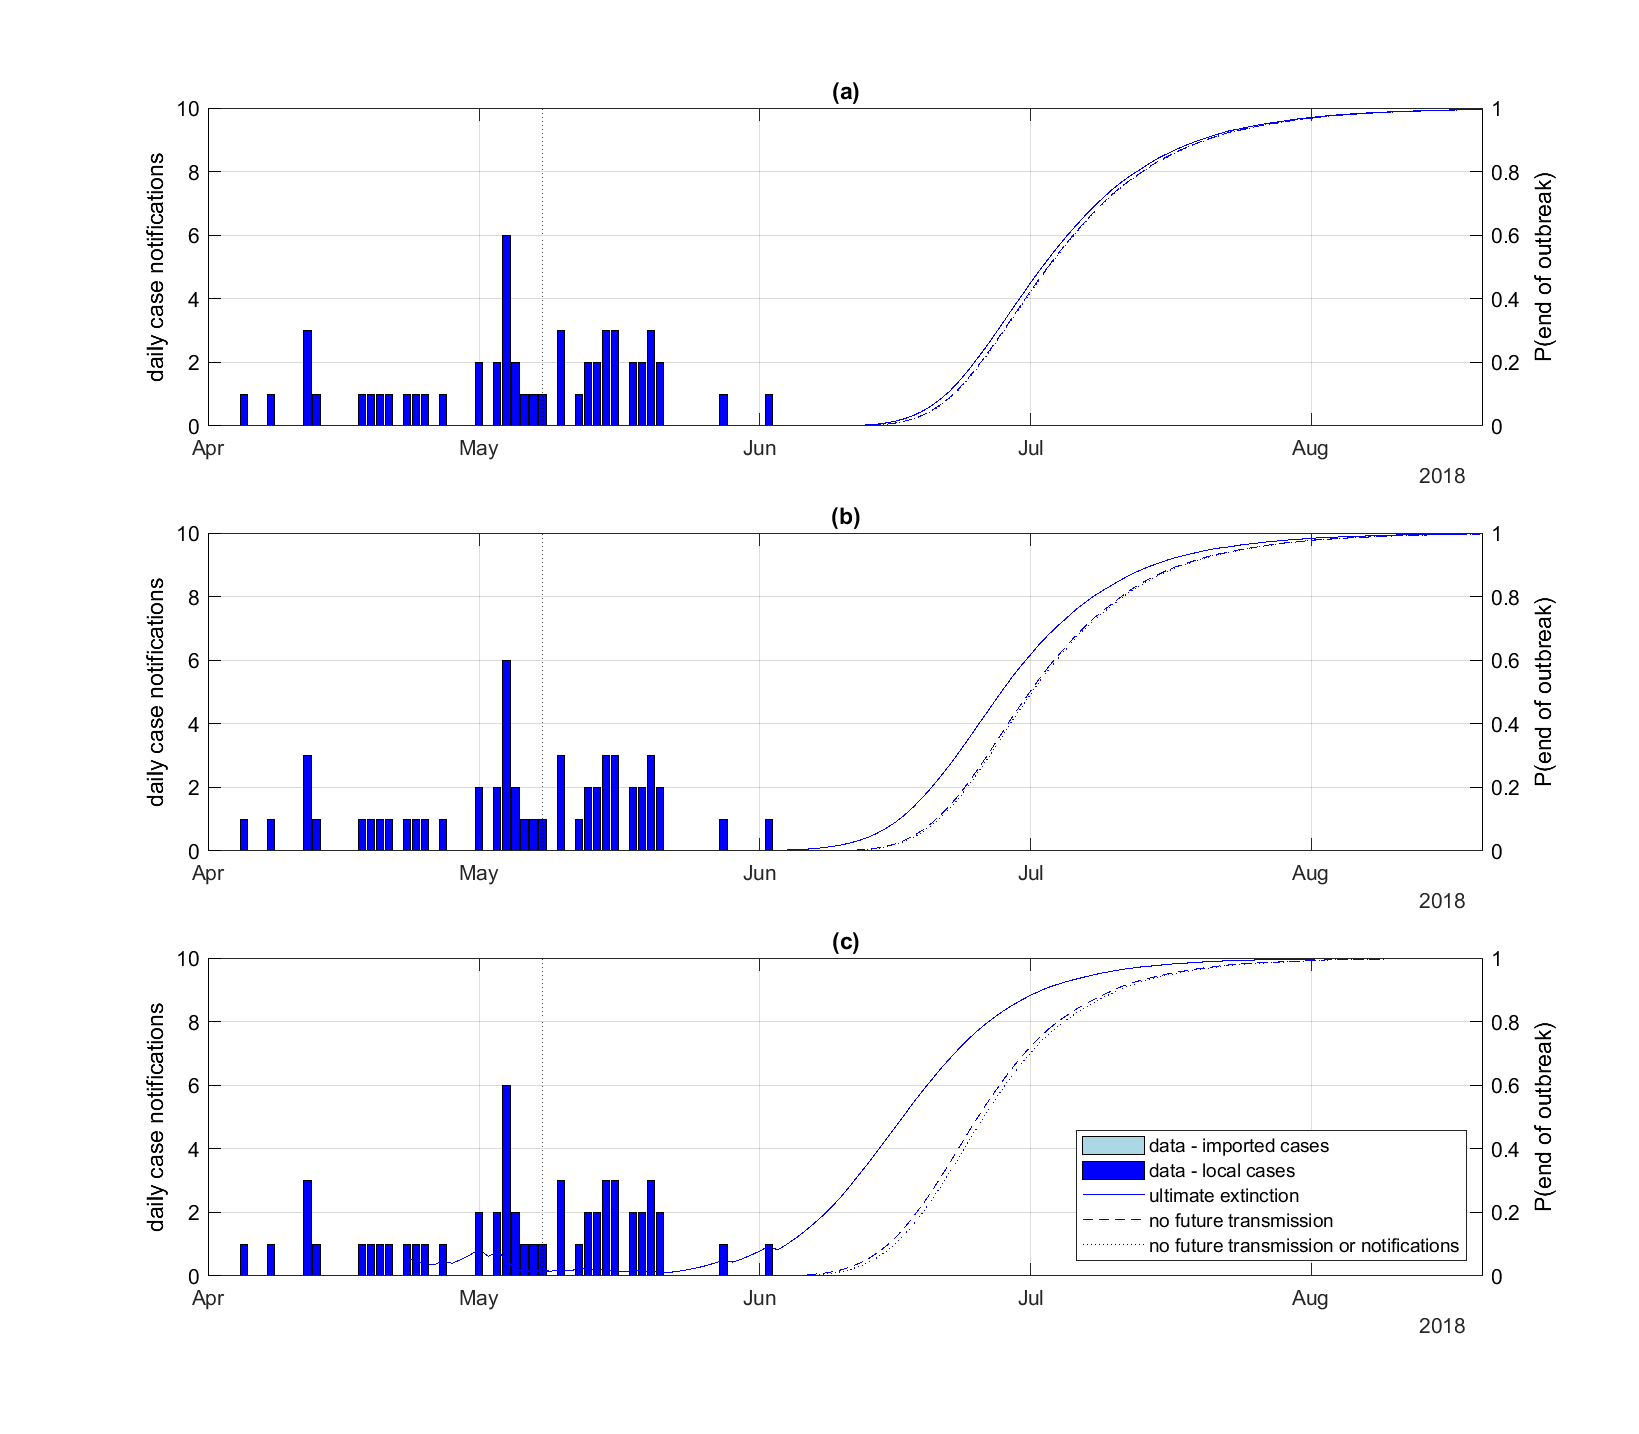
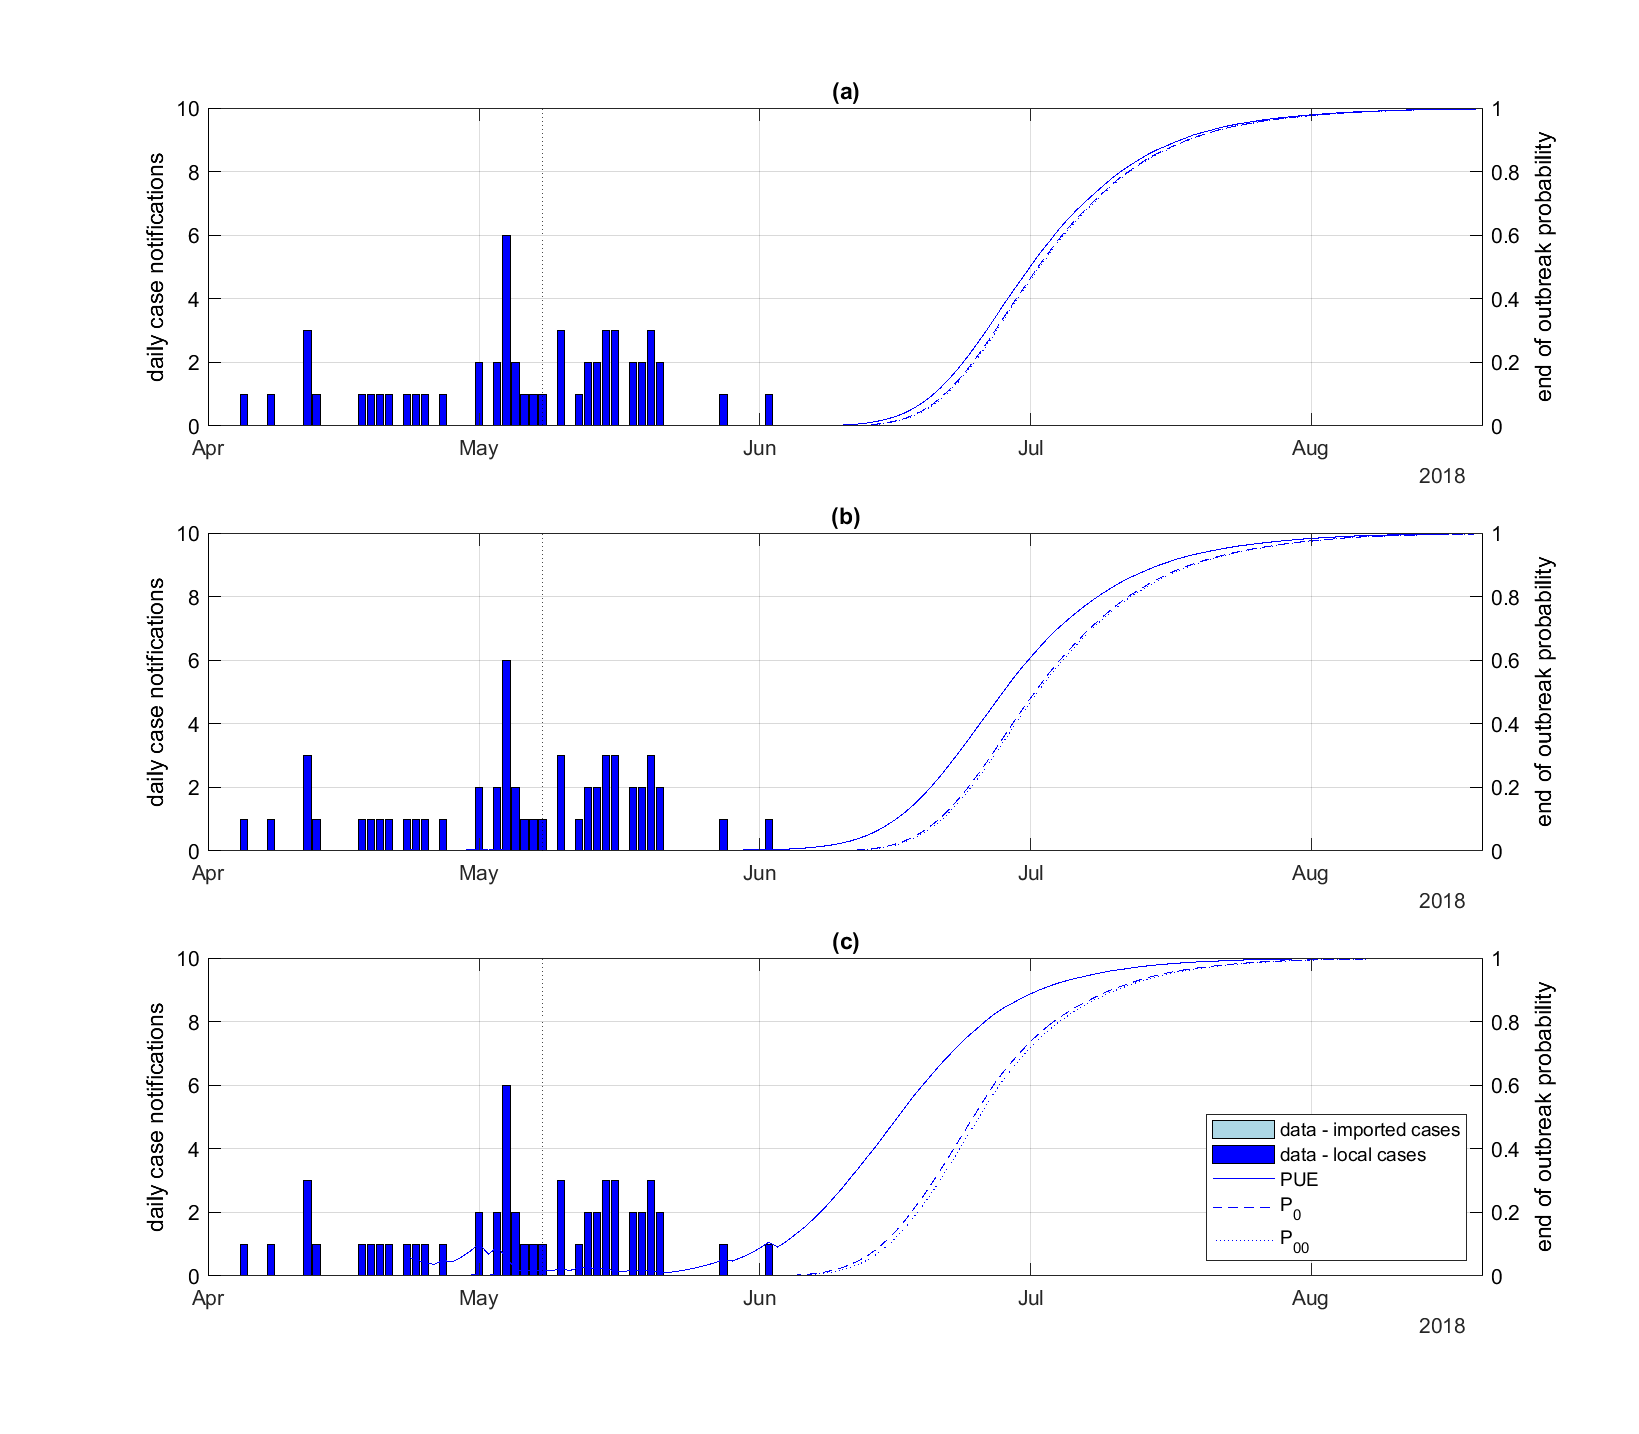
Updated parameters and results
Reverting to k=inf as the default value and updated figures

diff --git a/code/makePlots.m b/code/makePlots.m
@@ -42,11 +42,11 @@ fprintf(fid, '\\hline\n');
 
 iMinPlot = 30;          % don't plot the first part of the p(end of out break) curves which are >0 at the start of the outbreak
 iFig = 1;    
-for iOutbreak = 1:nOutbreaks
+for iOutbreak = 1:2
     fNameData = sprintf('%s_processed.csv', outbreakLbl(iOutbreak));
     processed = readtable(dataFolder+fNameData);
 
-    iRow = find(results.outbreak == outbreakLbl(iOutbreak) & results.iScenario == baseScenario);
+    iRow = find(results.outbreak == outbreakLbl(iOutbreak) & results.sensitivityFlag == sensitivityFlag(iOutbreak) & results.iScenario == baseScenario);
 
     t = results.t{iRow};
     par = results.par{iRow};
@@ -107,7 +107,7 @@ for iOutbreak = 1:nOutbreaks
     ylabel('daily local case notifications')
     yyaxis right
     plot(t(iMinPlot:end), pNoInf(iMinPlot:end), 'b-')    
-    ylabel('P(end of outbreak)')
+    ylabel('end of outbreak probability (P_0)')
     xline(par.tRampStart, 'k:');
     %xlim([processed.t(1)-1, processed.t(find(processed.nCasesLoc > 0, 1, 'last')+7) ]);
     xlim([processed.t(1)-1, t(end) ]);
@@ -148,7 +148,7 @@ for iOutbreak = 1:nOutbreaks
 
     scLabel = strings(1, length(scenarioKey));
     for iPlot = 1:length(scenarioKey)
-        iRow = find(results.outbreak == outbreakLbl(iOutbreak) & results.iScenario == scenarioKey(iPlot) );
+        iRow = find(results.outbreak == outbreakLbl(iOutbreak) & results.sensitivityFlag == sensitivityFlag(iOutbreak) & results.iScenario == scenarioKey(iPlot) );
         t = results.t{iRow};
         par = results.par{iRow};
         pNoInf = results.pNoInf_mean{iRow};
@@ -159,7 +159,7 @@ for iOutbreak = 1:nOutbreaks
     end
 
     xline(par.tRampStart, 'k:');
-    ylabel('P(end of outbreak)')
+    ylabel('end of outbreak probability (P_0)')
     legend(["data - imported cases", "data - local cases", scLabel], 'Location', 'southeast')
     xlim( [processed.t(1)-1, t(end)  ] )
     ax = gca;
@@ -176,13 +176,13 @@ for iOutbreak = 1:nOutbreaks
 
 
 
-    scenarioKey = 7:9;
+    scenarioKey = [5, 7, 8];
 
     h = figure(iFig);
     h.Position = [           437          46        1049         918];
     tiledlayout(3, 1, "TileSpacing", "Compact");
     for iPlot = 1:length(scenarioKey)
-        iRow = find(results.outbreak == outbreakLbl(iOutbreak) & results.iScenario == scenarioKey(iPlot) );
+        iRow = find(results.outbreak == outbreakLbl(iOutbreak) & results.sensitivityFlag == sensitivityFlag(iOutbreak) & results.iScenario == scenarioKey(iPlot) );
 
         t = results.t{iRow};
         par = results.par{iRow};
@@ -204,9 +204,9 @@ for iOutbreak = 1:nOutbreaks
         yyaxis right
         plot(t(iMinPlot:end), PUE(iMinPlot:end), 'b-', t(iMinPlot:end), pNoInf(iMinPlot:end), 'b--', t(iMinPlot:end), pNoInfOrCases(iMinPlot:end), 'b:' )
         xline(par.tRampStart, 'k:');
-        ylabel('P(end of outbreak)')
+        ylabel('end of outbreak probability')
         if iPlot == length(scenarioKey)
-            legend('data - imported cases', 'data - local cases',  'ultimate extinction', 'no future transmission', "no future transmission or notifications", 'Location', 'southeast')
+            legend('data - imported cases', 'data - local cases',  'PUE', 'P_0', "P_{00}", 'Location', 'southeast')
         end
         xlim( [processed.t(1)-1, t(end)  ] )
         ax = gca;
@@ -230,21 +230,21 @@ for iOutbreak = 1:nOutbreaks
 
 
 
-
-
-    scenarioKey = 1:6;
-    rowKey = find(results.outbreak == outbreakLbl(iOutbreak) & ismember(results.iScenario, scenarioKey) );
-    if outbreakLbl(iOutbreak) == "covid_NZ_2020"
-        fprintf(fid, '\\multicolumn{3}{l}{ \\bf Covid-19} \\\\ \n');
-    elseif outbreakLbl(iOutbreak) == "ebola_DRC_2018"
-        fprintf(fid, '\\multicolumn{3}{l}{ \\bf Ebola} \\\\ \n');
+    if ~sensitivityFlag(iOutbreak)
+    
+        scenarioKey = 1:6;
+        rowKey = find(results.outbreak == outbreakLbl(iOutbreak) & ismember(results.iScenario, scenarioKey) );
+        if outbreakLbl(iOutbreak) == "covid_NZ_2020"
+            fprintf(fid, '\\multicolumn{3}{l}{ \\bf Covid-19} \\\\ \n');
+        elseif outbreakLbl(iOutbreak) == "ebola_DRC_2018"
+            fprintf(fid, '\\multicolumn{3}{l}{ \\bf Ebola} \\\\ \n');
+        end
+        fprintf(fid, ' &  $t_n=%.1f$ days & $t_n=%.1f$ days \\\\ \n', results.par{rowKey(1)}.RTmean, results.par{rowKey(2)}.RTmean);
+        fprintf(fid, '$\\alpha=%.1f$ & %s & %s \\\\ \n ', results.par{rowKey(1)}.pReport, string(results.tpNoInf95{rowKey(1)}) , string(results.tpNoInf95{rowKey(2)}) );
+        fprintf(fid, '$\\alpha=%.1f$ & %s & %s \\\\ \n ', results.par{rowKey(3)}.pReport, string(results.tpNoInf95{rowKey(3)}) , string(results.tpNoInf95{rowKey(4)}) );
+        fprintf(fid, '$\\alpha=%.1f$ & %s & %s \\\\ \n ', results.par{rowKey(5)}.pReport, string(results.tpNoInf95{rowKey(5)}) , string(results.tpNoInf95{rowKey(6)}) );
+        fprintf(fid, '\\hline\n');
     end
-    fprintf(fid, ' &  $t_n=%.1f$ days & $t_n=%.1f$ days \\\\ \n', results.par{rowKey(1)}.RTmean, results.par{rowKey(2)}.RTmean);
-    fprintf(fid, '$\\alpha=%.1f$ & %s & %s \\\\ \n ', results.par{rowKey(1)}.pReport, string(results.tpNoInf95{rowKey(1)}) , string(results.tpNoInf95{rowKey(2)}) );
-    fprintf(fid, '$\\alpha=%.1f$ & %s & %s \\\\ \n ', results.par{rowKey(3)}.pReport, string(results.tpNoInf95{rowKey(3)}) , string(results.tpNoInf95{rowKey(4)}) );
-    fprintf(fid, '$\\alpha=%.1f$ & %s & %s \\\\ \n ', results.par{rowKey(5)}.pReport, string(results.tpNoInf95{rowKey(5)}) , string(results.tpNoInf95{rowKey(6)}) );
-    fprintf(fid, '\\hline\n');
-
 end
 
 fprintf(fid, '\\end{tabular} \n');

diff --git a/code/getPar.m b/code/getPar.m
@@ -1,16 +1,17 @@
-function [t, par] = getPar(outbreakLbl, iScenario)
+function [t, par] = getPar(outbreakLbl, sensitivityFlag, iScenario)
 
 
 par.nParticles = 1e5;
 
 
+k_scenarios = [inf; inf; inf; inf; inf; inf; 1; 0.2];
 
 if outbreakLbl == "covid_NZ_2020"
     % Set arrays of parameters varied from one scenairo to the next
-    k_scenarios = [0.41; 0.41; 0.41; 0.41; 0.41; 0.41; inf; 1; 0.2];
-    pReport_scenarios = [0.4; 0.4; 0.7; 0.7; 1; 1; 0.4; 0.4; 0.4];
-    RTmean_scenarios = [7.7; 11.2; 7.7; 11.2; 7.7; 11.2; 7.7; 7.7; 7.7];
-    RTsd_scenarios   = [3.2; 4.7; 3.2; 4.7; 3.2; 4.7; 3.2; 3.2; 3.2];
+
+    pReport_scenarios = [0.4; 0.4; 0.7; 0.7; 1; 1; 0.4; 0.4];
+    RTmean_scenarios = [7.7; 11.2; 7.7; 11.2; 7.7; 11.2; 7.7; 7.7];
+    RTsd_scenarios   = [3.2; 4.7; 3.2; 4.7; 3.2; 4.7; 3.2; 3.2];
 
     
     date0 = datetime(2020, 2, 26);              % date of 1st case (simulation may start earlier than this because date of infection may be earlier)
@@ -60,10 +61,9 @@ if outbreakLbl == "covid_NZ_2020"
 
 
 elseif outbreakLbl == "ebola_DRC_2018"
-    k_scenarios = [0.18; 0.18; 0.18; 0.18; 0.18; 0.18; inf; 1; 0.2];
-    pReport_scenarios = [0.8; 0.8; 0.9; 0.9; 1; 1; 0.8; 0.8; 0.8];
-    RTmean_scenarios = [6.2; 11.2; 6.2; 11.2; 6.2; 11.2; 6.2; 6.2; 6.2 ];
-    RTsd_scenarios =   [1.6; 4.3; 1.6; 4.3; 1.6; 4.3; 1.6; 1.6; 1.6];
+    pReport_scenarios = [0.8; 0.8; 0.9; 0.9; 1; 1; 0.8; 0.8];
+    RTmean_scenarios = [6.2; 11.2; 6.2; 11.2; 6.2; 11.2; 6.2; 6.2];
+    RTsd_scenarios =   [1.6; 4.3; 1.6; 4.3; 1.6; 4.3; 1.6; 1.6];
 
     date0 = datetime(2018, 4, 5);              % date of 1st case (simulation may start earlier than this because date of infection may be earlier)
     date1 = datetime(2018, 8, 20);           % End date for simulation 
@@ -83,11 +83,14 @@ elseif outbreakLbl == "ebola_DRC_2018"
     [par.R_shape, par.R_scale] = gamShapeScale(2.5, 1 );                    % shape-scale parameters for prior for initial R
     
     % Generation time distribution parameters
-    GTmax = 50;                     % maximum time for GT distribution 
-    par.GTmean = 15.3;            % original
-    par.GTsd = 9.3;               % original
-%     par.GTmean = 19.46;             % outbreak specific 
-%     par.GTsd = 6.08;                % outbreak specific 
+    GTmax = 50;                     % maximum time for GT distribution
+    if sensitivityFlag == 0
+        par.GTmean = 15.3;            % original
+        par.GTsd = 9.3;               % original
+    else
+        par.GTmean = 19.46;             % outbreak specific 
+        par.GTsd = 6.08;                % outbreak specific 
+    end
     [GTD_shape, GTD_scale] = gamShapeScale(par.GTmean, par.GTsd);
     pdfFnGTD = @(x)(gampdf(x, GTD_shape, GTD_scale ));
 
@@ -99,7 +102,11 @@ elseif outbreakLbl == "ebola_DRC_2018"
     pdfFnRTD = @(x)(gampdf(x, RTD_shape, RTD_scale));  
 
     par.filterImportsFlag = false;
-    par.nIndexCases = 1;                        % number of initial cases to reassign as imported cases
+    if sensitivityFlag == 0
+        par.nIndexCases = 1;                        % number of initial cases to reassign as imported cases
+    else
+        par.nIndexCases = 2;
+    end
     par.tInfImp = round(RTmean_scenarios(iScenario));                          % number of days imported cases are assumed to have been infectious in community before case notifiction (no assumptions about infectious period ending on notification date or starting after arrival date)
     par.relInfImp = 1;
     par.tMIQ = NaT;                                      % Imported cases after this date will be ignored

diff --git a/code/main.m b/code/main.m
@@ -9,10 +9,10 @@ dataFolder = "../processed_data/";
 resultsFolder = "../results/";
 
 % Outbreak labels (processed data files should be in the form label_processed.csv)
-outbreakLbl = ["covid_NZ_2020", "ebola_DRC_2018"];
+outbreakLbl = ["covid_NZ_2020", "ebola_DRC_2018", "ebola_DRC_2018"];
+sensitivityFlag = [0, 0, 1];
 
-
-nScenarios = 9;
+nScenarios = 8;
 
 % Some computational settings:
 ignoreDays = 30;        % for calculating time at which 95% is reached, ignore this many days at the start of the outbreak
@@ -40,7 +40,7 @@ for iOutbreak = 1:nOutbreaks
 
         % Get model parameters and vector of times for which simulations will be
         % run
-        [t, par] = getPar(outbreakLbl(iOutbreak), iScenario);
+        [t, par] = getPar(outbreakLbl(iOutbreak), sensitivityFlag(iOutbreak), iScenario);
 
         % Copy imported data onto the time array returned by getPar
         nCasesLoc = zeros(size(t));
@@ -63,6 +63,7 @@ for iOutbreak = 1:nOutbreaks
         
         % Store results for saving in a structrue:
         results.outbreak(iRow) = outbreakLbl(iOutbreak);
+        results.sensitivityFlag(iRow) = sensitivityFlag(iOutbreak);
         results.iScenario(iRow) = iScenario;
         results.t{iRow} = t;
         results.par{iRow} = par;

diff --git a/results/table.tex b/results/table.tex
@@ -2,14 +2,14 @@
 \hline
 \multicolumn{3}{l}{ \bf Covid-19} \\ 
  &  $t_n=7.7$ days & $t_n=11.2$ days \\ 
-$\alpha=0.4$ & 01-Jun-2020 & 31-May-2020 \\ 
- $\alpha=0.7$ & 30-May-2020 & 29-May-2020 \\ 
- $\alpha=1.0$ & 28-May-2020 & 27-May-2020 \\ 
+$\alpha=0.4$ & 06-Jun-2020 & 04-Jun-2020 \\ 
+ $\alpha=0.7$ & 03-Jun-2020 & 01-Jun-2020 \\ 
+ $\alpha=1.0$ & 01-Jun-2020 & 30-May-2020 \\ 
  \hline
 \multicolumn{3}{l}{ \bf Ebola} \\ 
  &  $t_n=6.2$ days & $t_n=11.2$ days \\ 
-$\alpha=0.8$ & 14-Jul-2018 & 14-Jul-2018 \\ 
- $\alpha=0.9$ & 14-Jul-2018 & 09-Jul-2018 \\ 
- $\alpha=1.0$ & 12-Jul-2018 & 10-Jul-2018 \\ 
+$\alpha=0.8$ & 31-Jul-2018 & 23-Jul-2018 \\ 
+ $\alpha=0.9$ & 28-Jul-2018 & 25-Jul-2018 \\ 
+ $\alpha=1.0$ & 25-Jul-2018 & 19-Jul-2018 \\ 
  \hline
 \end{tabular} 
